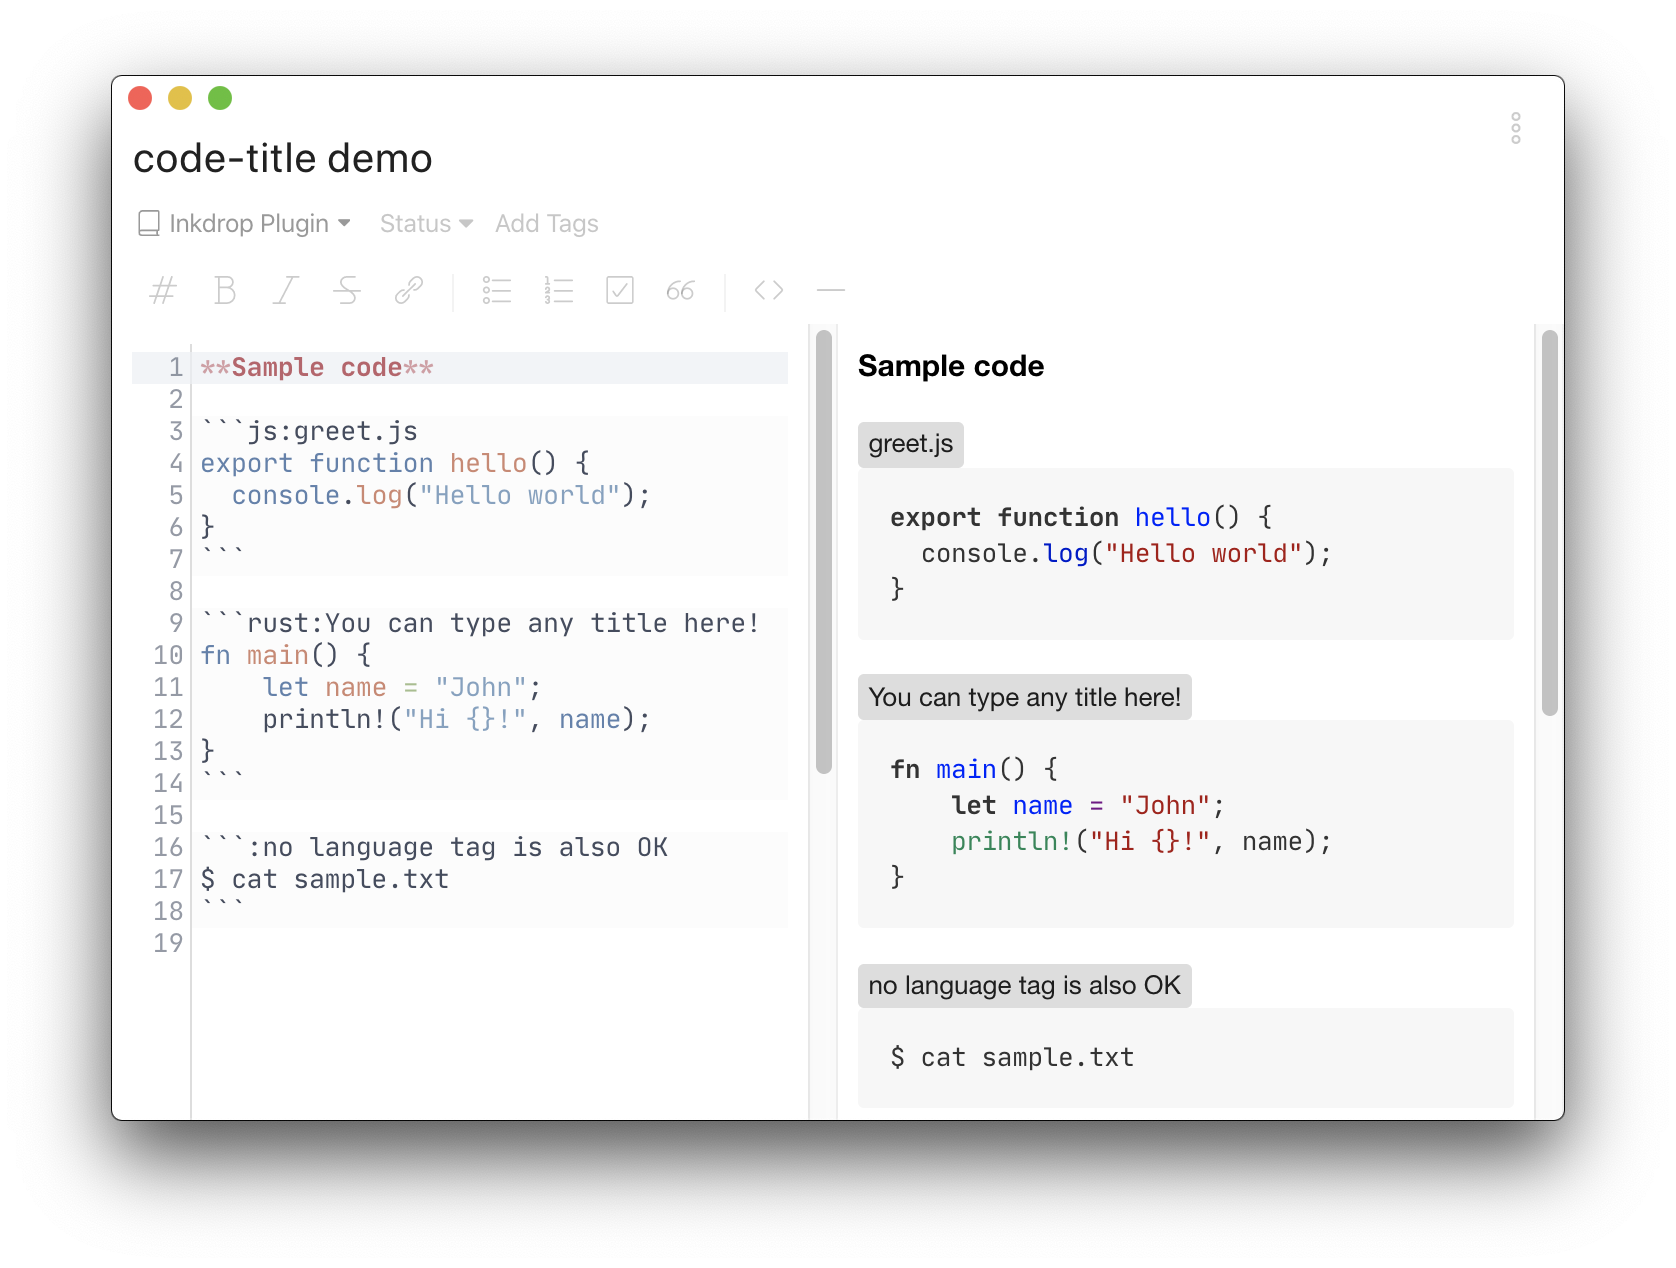
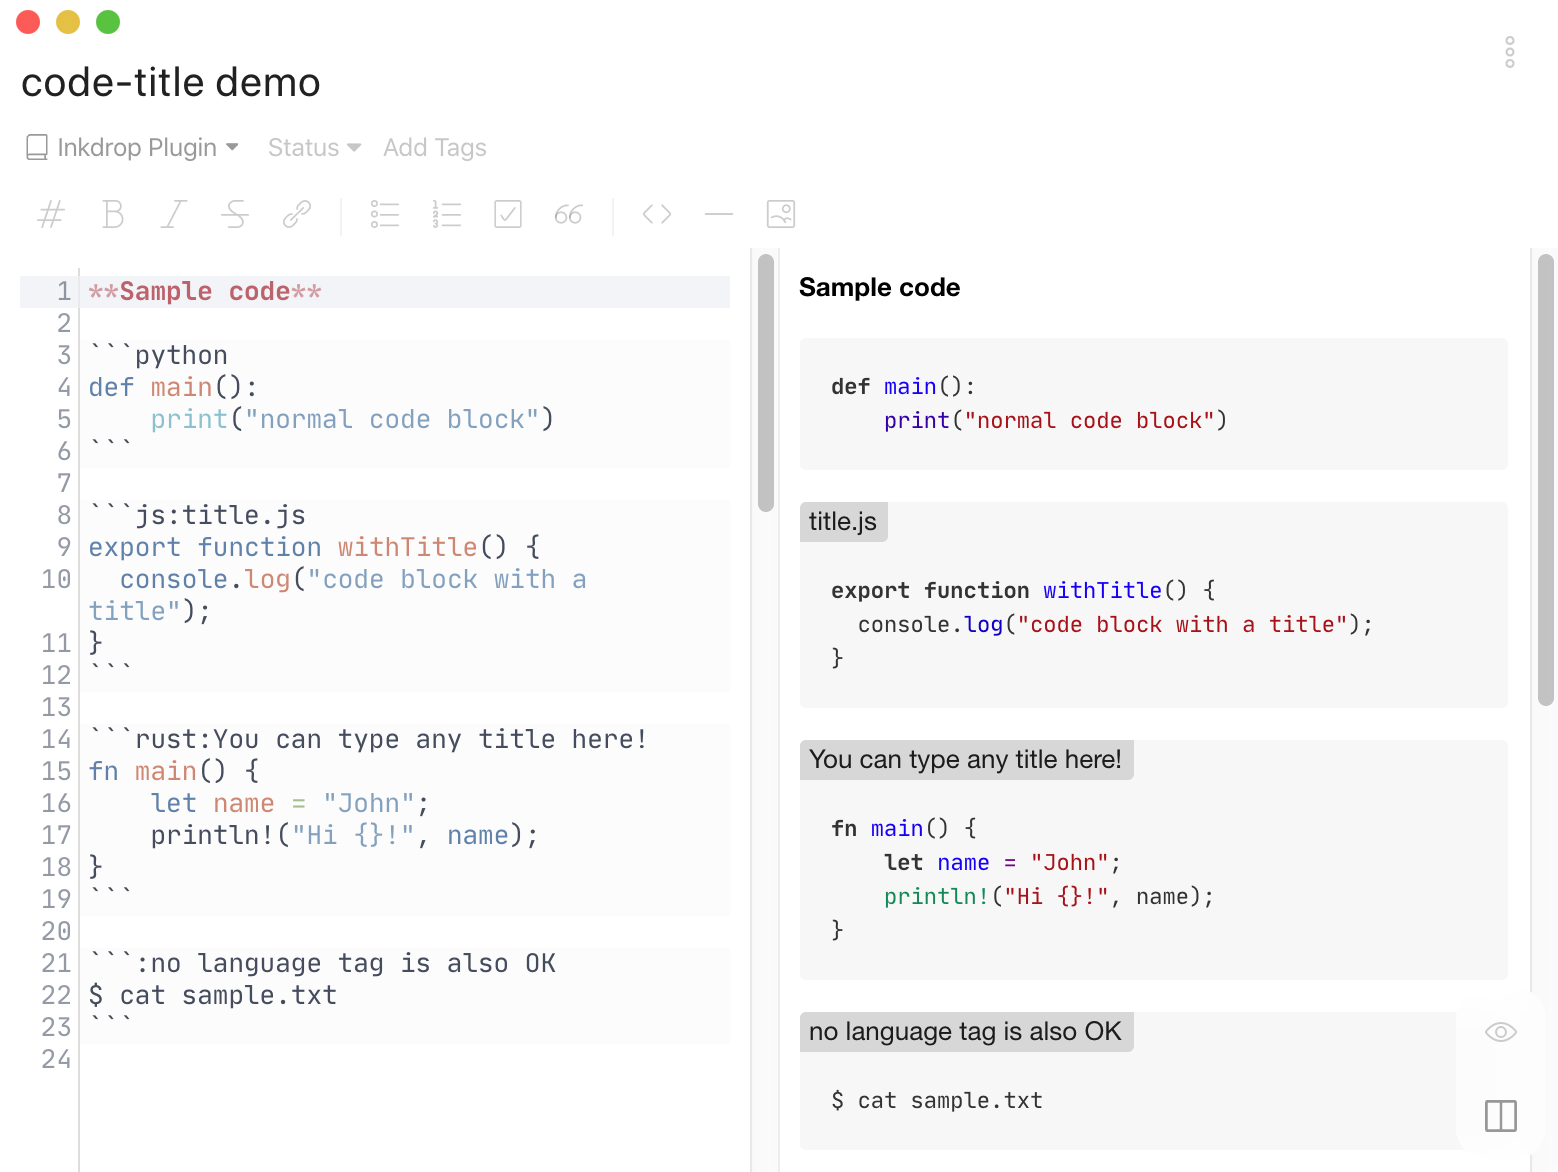
option to insert a title in a code block

diff --git a/lib/title-parser.js b/lib/title-parser.js
@@ -1,4 +1,4 @@
-'use strict';
+"use strict";
 
 Object.defineProperty(exports, "__esModule", {
   value: true
@@ -13,39 +13,48 @@ var _htmlEntities = require("html-entities");
 
 function _interopRequireDefault(obj) { return obj && obj.__esModule ? obj : { default: obj }; }
 
+//
+// unist-util-visit fucntion parses the below code
+//
+//   ```js:This is a hello function
+//   fucntion hello() {
+//     console.log('hello');
+//   }
+//   ```
+//
+// then yields a Node object
+//   {
+//     lang: "js:This",
+//     meta: "is a hello function",
+//     value: "function hello() {\n  console.log('hello');\n}",
+//     type: "code",
+//     position: ...
+//   }
+//
 const parseTitle = options => tree => {
-  const entities = new _htmlEntities.AllHtmlEntities(); //
-  // unist-util-visit fucntion parses the below code
-  //
-  //   ```js:This is a hello function
-  //   fucntion hello() {
-  //     console.log('hello');
-  //   }
-  //   ```
-  //
-  // and convert this to an Object
-  //   {
-  //     lang: "js:This",
-  //     meta: "is a hello function",
-  //     value: "function hello() {\n  console.log('hello');\n}",
-  //     type: "code",
-  //     position: ...
-  //   }
-  //
+  const entities = new _htmlEntities.AllHtmlEntities();
+  const position = inkdrop.config.get("code-title.titlePosition").toLowerCase();
+  (0, _unistUtilVisit.default)(tree, node => node.type === "code", (node, index, parent) => {
+    let [lang, title] = (0, _splitOnFirst.default)(node.lang || "", ":");
+    const meta = node.meta || ""; // preserve mdast-node info in data field
 
-  (0, _unistUtilVisit.default)(tree, node => node.type === 'code', (node, index, parent) => {
-    let [lang, title] = (0, _splitOnFirst.default)(node.lang || '', ':');
-    const meta = node.meta || '';
+    node.data = node.data || {};
+    node.data.hProperties = node.data.hProperties || {};
 
-    if (title || title === '') {
+    if (title || title === "") {
       node.lang = lang;
-      if (meta) title += ' ' + meta;
+      if (meta) title += " " + meta;
       title = entities.encode(title);
       const titleNode = {
-        type: 'html',
-        value: `<div class="code-title">${title}</div>`
+        type: "html",
+        value: `<div class="code-title ${position}">${title}</div>`
       };
       parent.children.splice(index, 0, titleNode);
+      let langClass = "";
+      if (lang) langClass = "language-" + lang;
+      node.data.hProperties.className = node.data.hProperties.className || [];
+      node.data.hProperties.className.push(langClass);
+      node.data.hProperties.className.unshift("with-title-" + position);
     }
   });
 };

diff --git a/src/title-parser.js b/src/title-parser.js
@@ -1,46 +1,58 @@
-'use strict';
+"use strict";
 
-import visit from 'unist-util-visit';
-import split from 'split-on-first';
-import { AllHtmlEntities as Entities } from 'html-entities';
+import visit from "unist-util-visit";
+import split from "split-on-first";
+import { AllHtmlEntities as Entities } from "html-entities";
+
+//
+// unist-util-visit fucntion parses the below code
+//
+//   ```js:This is a hello function
+//   fucntion hello() {
+//     console.log('hello');
+//   }
+//   ```
+//
+// then yields a Node object
+//   {
+//     lang: "js:This",
+//     meta: "is a hello function",
+//     value: "function hello() {\n  console.log('hello');\n}",
+//     type: "code",
+//     position: ...
+//   }
+//
 
 const parseTitle = (options) => (tree) => {
   const entities = new Entities();
-
-  //
-  // unist-util-visit fucntion parses the below code
-  //
-  //   ```js:This is a hello function
-  //   fucntion hello() {
-  //     console.log('hello');
-  //   }
-  //   ```
-  //
-  // and convert this to an Object
-  //   {
-  //     lang: "js:This",
-  //     meta: "is a hello function",
-  //     value: "function hello() {\n  console.log('hello');\n}",
-  //     type: "code",
-  //     position: ...
-  //   }
-  //
+  const position = inkdrop.config.get("code-title.titlePosition").toLowerCase();
 
   visit(
     tree,
-    (node) => node.type === 'code',
+    (node) => node.type === "code",
     (node, index, parent) => {
-      let [lang, title] = split(node.lang || '', ':');
-      const meta = node.meta || '';
-      if (title || title === '') {
+      let [lang, title] = split(node.lang || "", ":");
+      const meta = node.meta || "";
+
+      // preserve mdast-node info in data field
+      node.data = node.data || {};
+      node.data.hProperties = node.data.hProperties || {};
+
+      if (title || title === "") {
         node.lang = lang;
-        if (meta) title += ' ' + meta;
+        if (meta) title += " " + meta;
         title = entities.encode(title);
         const titleNode = {
-          type: 'html',
-          value: `<div class="code-title">${title}</div>`,
+          type: "html",
+          value: `<div class="code-title ${position}">${title}</div>`,
         };
         parent.children.splice(index, 0, titleNode);
+
+        let langClass = "";
+        if (lang) langClass = "language-" + lang;
+        node.data.hProperties.className = node.data.hProperties.className || [];
+        node.data.hProperties.className.push(langClass);
+        node.data.hProperties.className.unshift("with-title-" + position);
       }
     }
   );

diff --git a/lib/index.js b/lib/index.js
@@ -1,14 +1,52 @@
-'use strict';
+"use strict";
 
 var _inkdrop = require("inkdrop");
 
 var _titleParser = _interopRequireDefault(require("./title-parser"));
 
+var _codeblock = _interopRequireDefault(require("./codeblock"));
+
 function _interopRequireDefault(obj) { return obj && obj.__esModule ? obj : { default: obj }; }
 
+function switchPosition() {
+  const enums = ["Inside", "Top"];
+
+  for (let i = 0; i < 2; i++) {
+    if (inkdrop.config.get("code-title.titlePosition") === enums[i]) {
+      const prev = enums[1 - i].toLowerCase();
+      const now = enums[i].toLowerCase(); // change the class of the titles
+
+      document.querySelectorAll(".code-title." + prev).forEach(e => {
+        e.setAttribute("class", "code-title " + now);
+      }); // change the class of the code blocks
+
+      document.querySelectorAll(".with-title-" + prev).forEach(e => {
+        e.setAttribute("class", "with-title-" + now);
+      });
+    }
+  }
+}
+
 module.exports = {
+  config: {
+    titlePosition: {
+      title: "Title Position",
+      description: "The position of a title relative to a code block",
+      type: "string",
+      default: "Inside",
+      enum: ["Inside", "Top"]
+    }
+  },
+
   activate() {
     _inkdrop.markdownRenderer.remarkPlugins.push(_titleParser.default);
+
+    const OrigCode = _inkdrop.markdownRenderer.remarkReactComponents.code;
+    const TitledCode = (0, _codeblock.default)(OrigCode);
+    _inkdrop.markdownRenderer.remarkReactComponents.code = TitledCode;
+    inkdrop.config.observe("code-title.titlePosition", () => {
+      switchPosition();
+    });
   }
 
 };

diff --git a/src/index.js b/src/index.js
@@ -1,10 +1,47 @@
-'use strict';
+"use strict";
 
-import { markdownRenderer } from 'inkdrop';
-import parseTitle from './title-parser';
+import { markdownRenderer } from "inkdrop";
+import parseTitle from "./title-parser";
+import createTitledCodeBlock from "./codeblock";
+
+function switchPosition() {
+  const enums = ["Inside", "Top"];
+  for (let i = 0; i < 2; i++) {
+    if (inkdrop.config.get("code-title.titlePosition") === enums[i]) {
+      const prev = enums[1 - i].toLowerCase();
+      const now = enums[i].toLowerCase();
+      // change the class of the titles
+      document.querySelectorAll(".code-title." + prev).forEach((e) => {
+        e.setAttribute("class", "code-title " + now);
+      });
+      // change the class of the code blocks
+      document.querySelectorAll(".with-title-" + prev).forEach((e) => {
+        e.setAttribute("class", "with-title-" + now);
+      });
+    }
+  }
+}
 
 module.exports = {
+  config: {
+    titlePosition: {
+      title: "Title Position",
+      description: "The position of a title relative to a code block",
+      type: "string",
+      default: "Inside",
+      enum: ["Inside", "Top"],
+    },
+  },
+
   activate() {
     markdownRenderer.remarkPlugins.push(parseTitle);
+
+    const OrigCode = markdownRenderer.remarkReactComponents.code;
+    const TitledCode = createTitledCodeBlock(OrigCode);
+    markdownRenderer.remarkReactComponents.code = TitledCode;
+
+    inkdrop.config.observe("code-title.titlePosition", () => {
+      switchPosition();
+    });
   },
 };

diff --git a/lib/codeblock.js b/lib/codeblock.js
@@ -1,0 +1,32 @@
+"use strict";
+
+Object.defineProperty(exports, "__esModule", {
+  value: true
+});
+exports.default = createTitledCodeBlock;
+
+var _react = _interopRequireDefault(require("react"));
+
+function _interopRequireDefault(obj) { return obj && obj.__esModule ? obj : { default: obj }; }
+
+function createTitledCodeBlock(OrigCode) {
+  const Code = props => {
+    // e.g.) className: ["language-javascript position"]
+    const {
+      className
+    } = props;
+    let splitted = [];
+    let position = "";
+
+    if (className) {
+      splitted = className.split(" ");
+      position = splitted[0];
+    }
+
+    return splitted.length ? /*#__PURE__*/_react.default.createElement("div", {
+      className: position
+    }, /*#__PURE__*/_react.default.createElement(OrigCode, props, props.children)) : /*#__PURE__*/_react.default.createElement(OrigCode, props, props.children);
+  };
+
+  return Code;
+}

diff --git a/styles/code-title.less b/styles/code-title.less
@@ -1,0 +1,40 @@
+// -------------
+//   title tag
+// -------------
+.code-title {
+  color: var(--text-color);
+  background-color: rgba(120, 120, 120, 0.25);
+  font-size: 1em;
+  padding: 0 0.4em;
+  height: 20px;
+  display: inline-block;
+}
+
+.code-title.top {
+  border-radius: 3px;
+}
+
+.code-title.inside {
+  border-radius: 3px 0 3px 0;
+  margin-bottom: -20px;
+  display: table;
+  position: relative;
+  z-index: 2;
+}
+
+// --------------
+//   code block
+// --------------
+.with-title-top {
+  padding-top: auto;
+  font-size: 1em;
+}
+
+.with-title-inside {
+  padding-top: 20px;
+  font-size: 1em;
+}
+
+pre > div > code {
+  font-size: 1em !important;
+}

diff --git a/src/codeblock.js b/src/codeblock.js
@@ -1,0 +1,24 @@
+import React from "react";
+
+export default function createTitledCodeBlock(OrigCode) {
+  const Code = (props) => {
+    // e.g.) className: ["language-javascript position"]
+    const { className } = props;
+    let splitted = [];
+    let position = "";
+    if (className) {
+      splitted = className.split(" ");
+      position = splitted[0];
+    }
+
+    return splitted.length ? (
+      <div className={position}>
+        <OrigCode {...props}>{props.children}</OrigCode>
+      </div>
+    ) : (
+      <OrigCode {...props}>{props.children}</OrigCode>
+    );
+  };
+
+  return Code;
+}
